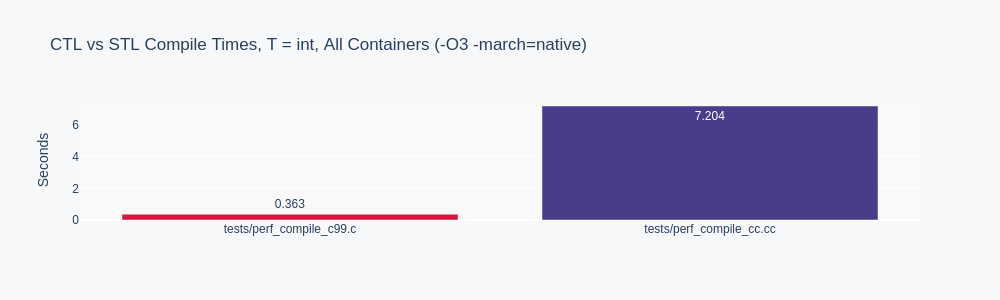
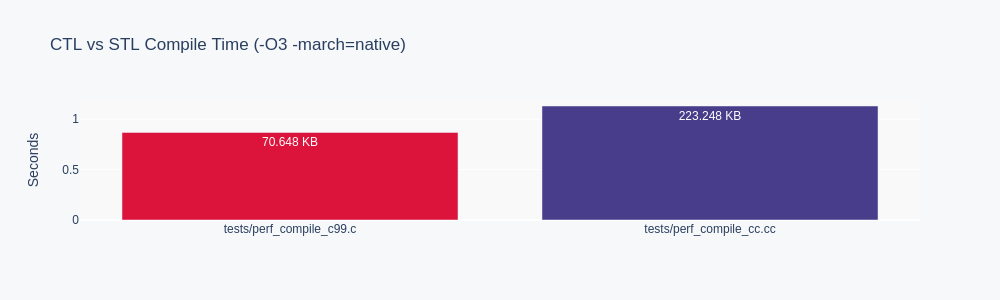
image update

diff --git a/tests/perf_plot_bar.py b/tests/perf_plot_bar.py
@@ -5,15 +5,21 @@ if __name__ == '__main__':
     filename = sys.argv[1]
     a = sys.argv[2]
     b = sys.argv[3]
+    c = sys.argv[4]
+    d = sys.argv[5]
     compiler=['tests/perf_compile_c99.c', 'tests/perf_compile_cc.cc']
     y = [float(a), float(b)]
+    sizes = [
+        str(int(c) / 1000) + ' KB',
+        str(int(d) / 1000) + ' KB',
+    ]
     colors = ['crimson', 'darkslateblue']
-    fig = go.Figure([go.Bar(x=compiler, y=y, text=y, textposition='auto', marker_color=colors)])
+    fig = go.Figure([go.Bar(x=compiler, y=y, text=sizes, textposition='auto', marker_color=colors)])
     fig.update_yaxes(title_text="Seconds")
     plot_bgcolor = "#F9F9F9"
     paper_bgcolor = "#F6F8FA"
     fig.update_layout(
-            title_text="CTL vs STL Compile Times, T = int, All Containers (-O3 -march=native)",
+            title_text="CTL vs STL Compile Time (-O3 -march=native)",
             plot_bgcolor=plot_bgcolor, paper_bgcolor=paper_bgcolor)
     fig.write_image("%s.png" % filename, width=1000, height=300)
 

diff --git a/tests/perf_compile_c99.c b/tests/perf_compile_c99.c
@@ -31,4 +31,22 @@
 
 int main(void)
 {
+    deq_int a = deq_int_init();
+    lst_int c = lst_int_init();
+    vec_int b = vec_int_init();
+    que_int d = que_int_init();
+    set_int e = set_int_init();
+    stk_int f = stk_int_init();
+    vec_int g = vec_int_init();
+    str h = str_init();
+    map_int_int i = map_int_int_init();
+    deq_int_free(&a);
+    lst_int_free(&c);
+    vec_int_free(&b);
+    que_int_free(&d);
+    set_int_free(&e);
+    stk_int_free(&f);
+    vec_int_free(&g);
+    str_free(&h);
+    map_int_int_free(&i);
 }

diff --git a/tests/perf_compile_cc.cc b/tests/perf_compile_cc.cc
@@ -7,14 +7,14 @@
 #include <vector>
 #include <string>
 
-template class std::deque<int>;
-template class std::list<int>;
-template class std::map<int, int>;
-template class std::queue<int>;
-template class std::set<int>;
-template class std::stack<int>;
-template class std::vector<int>;
-
 int main()
 {
+    std::deque<int> a;
+    std::list<int> b;
+    std::map<int, int> c;
+    std::queue<int> d;
+    std::set<int> e;
+    std::stack<int> f;
+    std::vector<int>g;
+    std::string h;
 }
